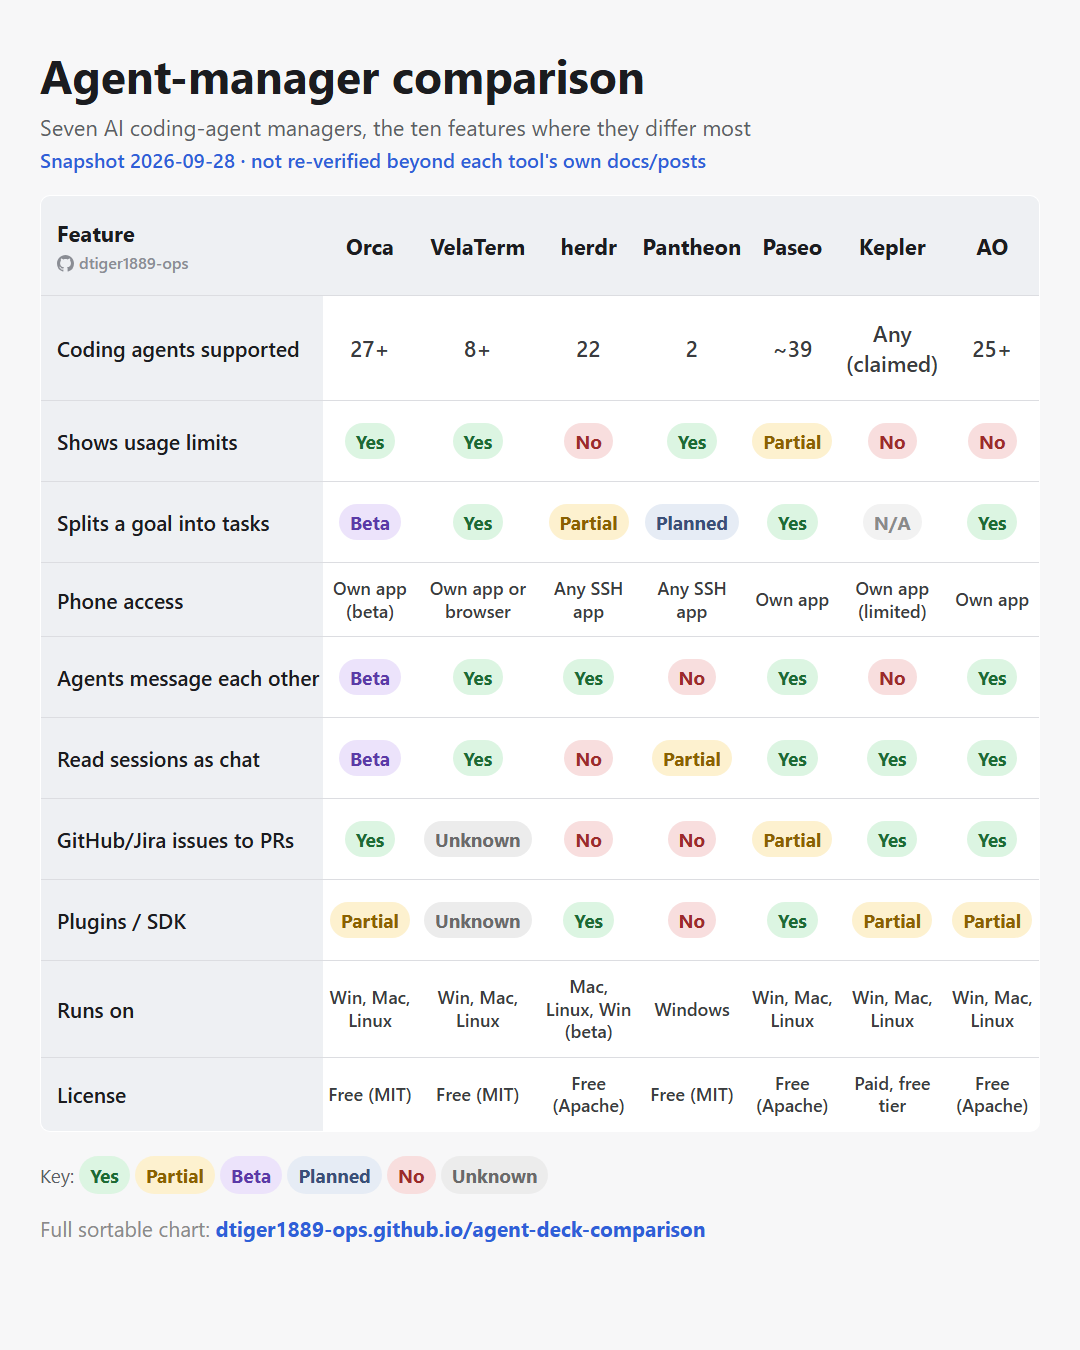
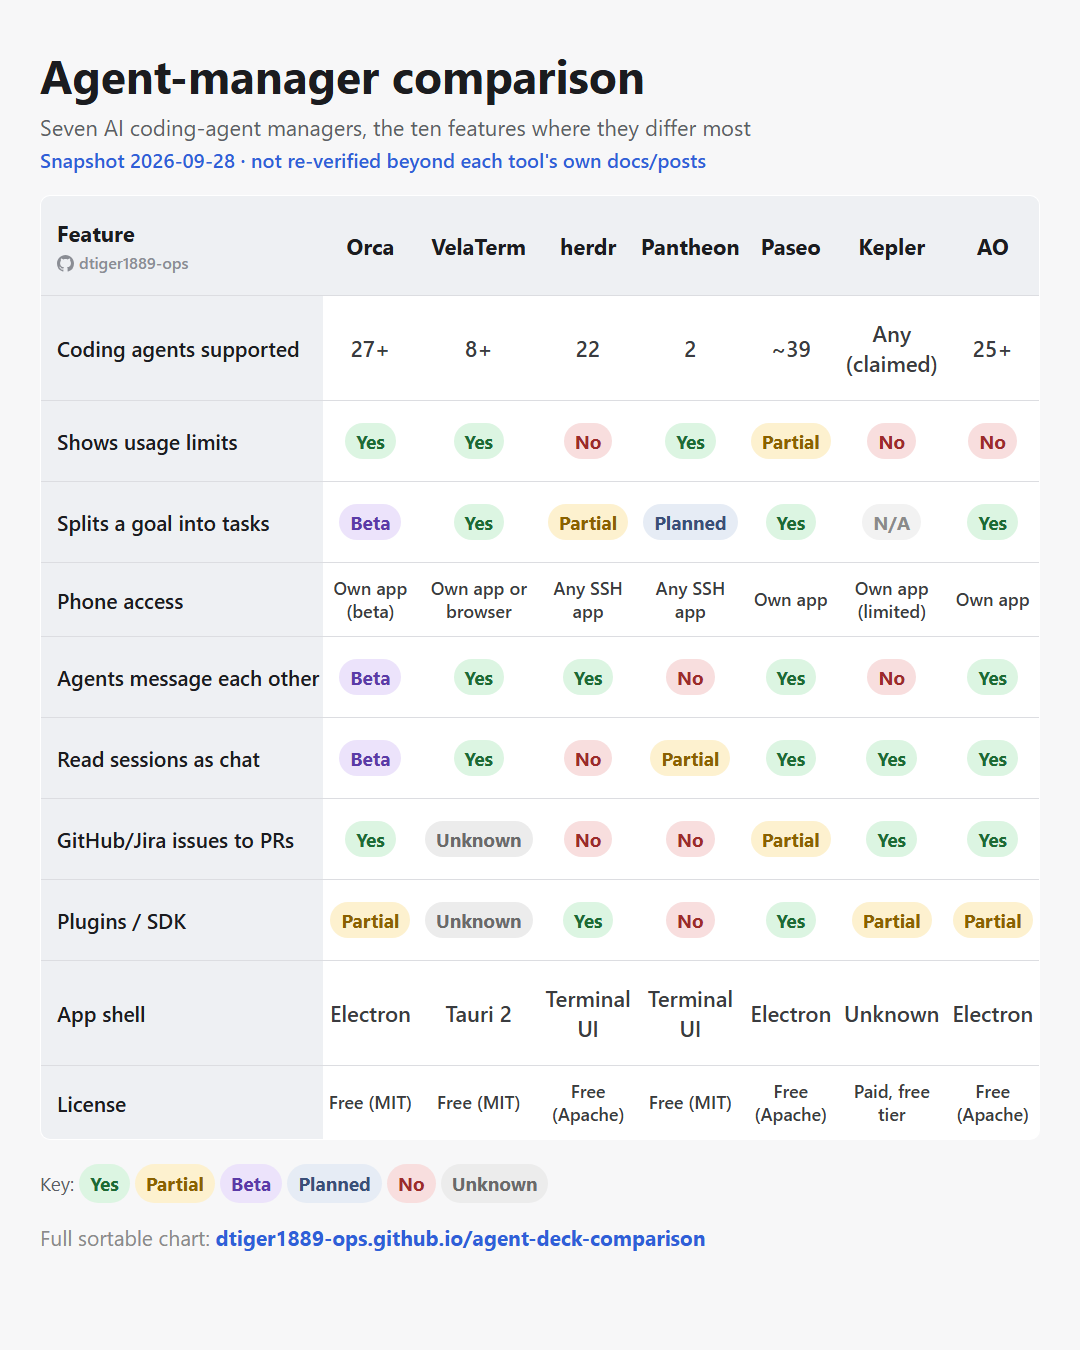
Image 2: App shell row instead of Runs on

diff --git a/assets/linkedin.html b/assets/linkedin.html
@@ -30,7 +30,7 @@
   <p class="snap">Snapshot 2026-09-28 &middot; not re-verified beyond each tool's own docs/posts</p>
   <table>
     <thead><tr><th>Feature<span class="wm"><svg class="gh" viewBox="0 0 16 16" width="17" height="17" aria-hidden="true"><path fill="currentColor" d="M8 0c4.42 0 8 3.58 8 8a8.013 8.013 0 0 1-5.45 7.59c-.4.08-.55-.17-.55-.38 0-.27.01-1.13.01-2.2 0-.75-.25-1.23-.54-1.48 1.78-.2 3.65-.88 3.65-3.95 0-.88-.31-1.59-.82-2.15.08-.2.36-1.02-.08-2.12 0 0-.67-.22-2.2.82-.64-.18-1.32-.27-2-.27-.68 0-1.36.09-2 .27-1.53-1.03-2.2-.82-2.2-.82-.44 1.1-.16 1.92-.08 2.12-.51.56-.82 1.28-.82 2.15 0 3.06 1.86 3.75 3.64 3.95-.23.2-.44.55-.51 1.07-.46.21-1.61.55-2.33-.66-.15-.24-.6-.83-1.23-.82-.67.01-.27.38.01.53.34.19.73.9.82 1.13.16.45.68 1.31 2.69.94 0 .67.01 1.3.01 1.49 0 .21-.15.45-.55.37A7.995 7.995 0 0 1 0 8c0-4.42 3.58-8 8-8Z"/></svg>dtiger1889-ops</span></th><th>Orca</th><th>VelaTerm</th><th>herdr</th><th>Pantheon</th><th>Paseo</th><th>Kepler</th><th>AO</th></tr></thead>
-    <tbody><tr><th>Coding agents supported</th><td class="plain">27+</td><td class="plain">8+</td><td class="plain">22</td><td class="plain">2</td><td class="plain">~39</td><td class="plain">Any (claimed)</td><td class="plain">25+</td></tr><tr><th>App shell</th><td class="plain">Electron</td><td class="plain">Tauri 2</td><td class="plain">Terminal UI</td><td class="plain">Terminal UI</td><td class="plain">Electron</td><td class="plain">not verified</td><td class="plain">Electron</td></tr><tr><th>Shows usage limits</th><td><span class="b" style="background:#dcf5e2;color:#1d6b34">Yes</span></td><td><span class="b" style="background:#dcf5e2;color:#1d6b34">Yes</span></td><td><span class="b" style="background:#f8dede;color:#9c2b2b">No</span></td><td><span class="b" style="background:#dcf5e2;color:#1d6b34">Yes</span></td><td><span class="b" style="background:#fdf1cf;color:#8a6100">Partial</span></td><td><span class="b" style="background:#f8dede;color:#9c2b2b">No</span></td><td><span class="b" style="background:#f8dede;color:#9c2b2b">No</span></td></tr><tr><th>Predicts limit hits</th><td><span class="b" style="background:#f8dede;color:#9c2b2b">No</span></td><td><span class="b" style="background:#ffffff;color:#6a6a6a;border:2px dashed #9a9a9a;padding:3px 7px">Not documented</span></td><td><span class="b" style="background:#ffffff;color:#6a6a6a;border:2px dashed #9a9a9a;padding:3px 7px">Not documented</span></td><td><span class="b" style="background:#fdf1cf;color:#8a6100">Partial</span></td><td><span class="b" style="background:#f8dede;color:#9c2b2b">No</span></td><td><span class="b" style="background:#f8dede;color:#9c2b2b">No</span></td><td><span class="b" style="background:#f8dede;color:#9c2b2b">No</span></td></tr><tr><th>Pause/resume at limits</th><td><span class="b" style="background:#f8dede;color:#9c2b2b">No</span></td><td><span class="b" style="background:#ffffff;color:#6a6a6a;border:2px dashed #9a9a9a;padding:3px 7px">Not documented</span></td><td><span class="b" style="background:#ffffff;color:#6a6a6a;border:2px dashed #9a9a9a;padding:3px 7px">Not documented</span></td><td><span class="b" style="background:#fdf1cf;color:#8a6100">Partial</span></td><td><span class="b" style="background:#f8dede;color:#9c2b2b">No</span></td><td><span class="b" style="background:#f8dede;color:#9c2b2b">No</span></td><td><span class="b" style="background:#f8dede;color:#9c2b2b">No</span></td></tr><tr><th>Tasks from notes vault</th><td><span class="b" style="background:#f8dede;color:#9c2b2b">No</span></td><td><span class="b" style="background:#f8dede;color:#9c2b2b">No</span></td><td><span class="b" style="background:#f8dede;color:#9c2b2b">No</span></td><td><span class="b" style="background:#dcf5e2;color:#1d6b34">Yes</span></td><td><span class="b" style="background:#f8dede;color:#9c2b2b">No</span></td><td><span class="b" style="background:#f8dede;color:#9c2b2b">No</span></td><td><span class="b" style="background:#f8dede;color:#9c2b2b">No</span></td></tr><tr><th>Manages worktrees</th><td><span class="b" style="background:#dcf5e2;color:#1d6b34">Yes</span></td><td><span class="b" style="background:#dcf5e2;color:#1d6b34">Yes</span></td><td><span class="b" style="background:#dcf5e2;color:#1d6b34">Yes</span></td><td><span class="b" style="background:#f8dede;color:#9c2b2b">No</span></td><td><span class="b" style="background:#dcf5e2;color:#1d6b34">Yes</span></td><td><span class="b" style="background:#dcf5e2;color:#1d6b34">Yes</span></td><td><span class="b" style="background:#dcf5e2;color:#1d6b34">Yes</span></td></tr><tr><th>Splits the work</th><td><span class="b" style="background:#ece3fb;color:#5b3aa8">Beta</span></td><td><span class="b" style="background:#dcf5e2;color:#1d6b34">Yes</span></td><td><span class="b" style="background:#fdf1cf;color:#8a6100">Partial</span></td><td><span class="b" style="background:#e6ecf5;color:#3a4f78">Planned</span></td><td><span class="b" style="background:#dcf5e2;color:#1d6b34">Yes</span></td><td><span class="b" style="background:#f2f2f2;color:#8a8a8a">N/A</span></td><td><span class="b" style="background:#dcf5e2;color:#1d6b34">Yes</span></td></tr><tr><th>Phone app</th><td><span class="b" style="background:#ece3fb;color:#5b3aa8">Beta</span></td><td><span class="b" style="background:#dcf5e2;color:#1d6b34">Yes</span></td><td><span class="b" style="background:#f8dede;color:#9c2b2b">No</span></td><td><span class="b" style="background:#f8dede;color:#9c2b2b">No</span></td><td><span class="b" style="background:#dcf5e2;color:#1d6b34">Yes</span></td><td><span class="b" style="background:#fdf1cf;color:#8a6100">Partial</span></td><td><span class="b" style="background:#dcf5e2;color:#1d6b34">Yes</span></td></tr><tr><th>Runs in your terminal</th><td><span class="b" style="background:#f8dede;color:#9c2b2b">No</span></td><td><span class="b" style="background:#f8dede;color:#9c2b2b">No</span></td><td><span class="b" style="background:#dcf5e2;color:#1d6b34">Yes</span></td><td><span class="b" style="background:#dcf5e2;color:#1d6b34">Yes</span></td><td><span class="b" style="background:#f8dede;color:#9c2b2b">No</span></td><td><span class="b" style="background:#f8dede;color:#9c2b2b">No</span></td><td><span class="b" style="background:#f8dede;color:#9c2b2b">No</span></td></tr></tbody>
+    <tbody><tr><th>Coding agents supported</th><td class="plain">27+</td><td class="plain">8+</td><td class="plain">22</td><td class="plain">2</td><td class="plain">~39</td><td class="plain">Any (claimed)</td><td class="plain">25+</td></tr><tr><th>App shell</th><td class="plain">Electron</td><td class="plain">Tauri 2</td><td class="plain">Terminal UI</td><td class="plain">Terminal UI</td><td class="plain">Electron</td><td class="plain">Unknown</td><td class="plain">Electron</td></tr><tr><th>Shows usage limits</th><td><span class="b" style="background:#dcf5e2;color:#1d6b34">Yes</span></td><td><span class="b" style="background:#dcf5e2;color:#1d6b34">Yes</span></td><td><span class="b" style="background:#f8dede;color:#9c2b2b">No</span></td><td><span class="b" style="background:#dcf5e2;color:#1d6b34">Yes</span></td><td><span class="b" style="background:#fdf1cf;color:#8a6100">Partial</span></td><td><span class="b" style="background:#f8dede;color:#9c2b2b">No</span></td><td><span class="b" style="background:#f8dede;color:#9c2b2b">No</span></td></tr><tr><th>Predicts limit hits</th><td><span class="b" style="background:#f8dede;color:#9c2b2b">No</span></td><td><span class="b" style="background:#ffffff;color:#6a6a6a;border:2px dashed #9a9a9a;padding:3px 7px">Not documented</span></td><td><span class="b" style="background:#ffffff;color:#6a6a6a;border:2px dashed #9a9a9a;padding:3px 7px">Not documented</span></td><td><span class="b" style="background:#fdf1cf;color:#8a6100">Partial</span></td><td><span class="b" style="background:#f8dede;color:#9c2b2b">No</span></td><td><span class="b" style="background:#f8dede;color:#9c2b2b">No</span></td><td><span class="b" style="background:#f8dede;color:#9c2b2b">No</span></td></tr><tr><th>Pause/resume at limits</th><td><span class="b" style="background:#f8dede;color:#9c2b2b">No</span></td><td><span class="b" style="background:#ffffff;color:#6a6a6a;border:2px dashed #9a9a9a;padding:3px 7px">Not documented</span></td><td><span class="b" style="background:#ffffff;color:#6a6a6a;border:2px dashed #9a9a9a;padding:3px 7px">Not documented</span></td><td><span class="b" style="background:#fdf1cf;color:#8a6100">Partial</span></td><td><span class="b" style="background:#f8dede;color:#9c2b2b">No</span></td><td><span class="b" style="background:#f8dede;color:#9c2b2b">No</span></td><td><span class="b" style="background:#f8dede;color:#9c2b2b">No</span></td></tr><tr><th>Tasks from notes vault</th><td><span class="b" style="background:#f8dede;color:#9c2b2b">No</span></td><td><span class="b" style="background:#f8dede;color:#9c2b2b">No</span></td><td><span class="b" style="background:#f8dede;color:#9c2b2b">No</span></td><td><span class="b" style="background:#dcf5e2;color:#1d6b34">Yes</span></td><td><span class="b" style="background:#f8dede;color:#9c2b2b">No</span></td><td><span class="b" style="background:#f8dede;color:#9c2b2b">No</span></td><td><span class="b" style="background:#f8dede;color:#9c2b2b">No</span></td></tr><tr><th>Manages worktrees</th><td><span class="b" style="background:#dcf5e2;color:#1d6b34">Yes</span></td><td><span class="b" style="background:#dcf5e2;color:#1d6b34">Yes</span></td><td><span class="b" style="background:#dcf5e2;color:#1d6b34">Yes</span></td><td><span class="b" style="background:#f8dede;color:#9c2b2b">No</span></td><td><span class="b" style="background:#dcf5e2;color:#1d6b34">Yes</span></td><td><span class="b" style="background:#dcf5e2;color:#1d6b34">Yes</span></td><td><span class="b" style="background:#dcf5e2;color:#1d6b34">Yes</span></td></tr><tr><th>Splits the work</th><td><span class="b" style="background:#ece3fb;color:#5b3aa8">Beta</span></td><td><span class="b" style="background:#dcf5e2;color:#1d6b34">Yes</span></td><td><span class="b" style="background:#fdf1cf;color:#8a6100">Partial</span></td><td><span class="b" style="background:#e6ecf5;color:#3a4f78">Planned</span></td><td><span class="b" style="background:#dcf5e2;color:#1d6b34">Yes</span></td><td><span class="b" style="background:#f2f2f2;color:#8a8a8a">N/A</span></td><td><span class="b" style="background:#dcf5e2;color:#1d6b34">Yes</span></td></tr><tr><th>Phone app</th><td><span class="b" style="background:#ece3fb;color:#5b3aa8">Beta</span></td><td><span class="b" style="background:#dcf5e2;color:#1d6b34">Yes</span></td><td><span class="b" style="background:#f8dede;color:#9c2b2b">No</span></td><td><span class="b" style="background:#f8dede;color:#9c2b2b">No</span></td><td><span class="b" style="background:#dcf5e2;color:#1d6b34">Yes</span></td><td><span class="b" style="background:#fdf1cf;color:#8a6100">Partial</span></td><td><span class="b" style="background:#dcf5e2;color:#1d6b34">Yes</span></td></tr><tr><th>Runs in your terminal</th><td><span class="b" style="background:#f8dede;color:#9c2b2b">No</span></td><td><span class="b" style="background:#f8dede;color:#9c2b2b">No</span></td><td><span class="b" style="background:#dcf5e2;color:#1d6b34">Yes</span></td><td><span class="b" style="background:#dcf5e2;color:#1d6b34">Yes</span></td><td><span class="b" style="background:#f8dede;color:#9c2b2b">No</span></td><td><span class="b" style="background:#f8dede;color:#9c2b2b">No</span></td><td><span class="b" style="background:#f8dede;color:#9c2b2b">No</span></td></tr></tbody>
   </table>
   <p class="key">Key: <span class="b" style="background:#dcf5e2;color:#1d6b34">Yes</span> <span class="b" style="background:#fdf1cf;color:#8a6100">Partial</span> <span class="b" style="background:#ece3fb;color:#5b3aa8">Beta</span> <span class="b" style="background:#e6ecf5;color:#3a4f78">Planned</span> <span class="b" style="background:#f8dede;color:#9c2b2b">No</span> <span class="b" style="background:#ffffff;color:#6a6a6a;border:2px dashed #9a9a9a;padding:3px 7px">Not documented</span> <span class="b" style="background:#ececec;color:#6a6a6a">Unknown</span></p>
   <p class="footer">Full sortable chart: <b style="color:#2f5fd8">dtiger1889-ops.github.io/agent-deck-comparison</b></p>

diff --git a/assets/share-2.html b/assets/share-2.html
@@ -30,7 +30,7 @@
   <p class="snap">Snapshot 2026-09-28 &middot; not re-verified beyond each tool's own docs/posts</p>
   <table>
     <thead><tr><th>Feature<span class="wm"><svg class="gh" viewBox="0 0 16 16" width="17" height="17" aria-hidden="true"><path fill="currentColor" d="M8 0c4.42 0 8 3.58 8 8a8.013 8.013 0 0 1-5.45 7.59c-.4.08-.55-.17-.55-.38 0-.27.01-1.13.01-2.2 0-.75-.25-1.23-.54-1.48 1.78-.2 3.65-.88 3.65-3.95 0-.88-.31-1.59-.82-2.15.08-.2.36-1.02-.08-2.12 0 0-.67-.22-2.2.82-.64-.18-1.32-.27-2-.27-.68 0-1.36.09-2 .27-1.53-1.03-2.2-.82-2.2-.82-.44 1.1-.16 1.92-.08 2.12-.51.56-.82 1.28-.82 2.15 0 3.06 1.86 3.75 3.64 3.95-.23.2-.44.55-.51 1.07-.46.21-1.61.55-2.33-.66-.15-.24-.6-.83-1.23-.82-.67.01-.27.38.01.53.34.19.73.9.82 1.13.16.45.68 1.31 2.69.94 0 .67.01 1.3.01 1.49 0 .21-.15.45-.55.37A7.995 7.995 0 0 1 0 8c0-4.42 3.58-8 8-8Z"/></svg>dtiger1889-ops</span></th><th>Orca</th><th>VelaTerm</th><th>herdr</th><th>Pantheon</th><th>Paseo</th><th>Kepler</th><th>AO</th></tr></thead>
-    <tbody><tr><th>Coding agents supported</th><td class="plain">27+</td><td class="plain">8+</td><td class="plain">22</td><td class="plain">2</td><td class="plain">~39</td><td class="plain">Any (claimed)</td><td class="plain">25+</td></tr><tr><th>Shows usage limits</th><td><span class="b" style="background:#dcf5e2;color:#1d6b34">Yes</span></td><td><span class="b" style="background:#dcf5e2;color:#1d6b34">Yes</span></td><td><span class="b" style="background:#f8dede;color:#9c2b2b">No</span></td><td><span class="b" style="background:#dcf5e2;color:#1d6b34">Yes</span></td><td><span class="b" style="background:#fdf1cf;color:#8a6100">Partial</span></td><td><span class="b" style="background:#f8dede;color:#9c2b2b">No</span></td><td><span class="b" style="background:#f8dede;color:#9c2b2b">No</span></td></tr><tr><th>Splits a goal into tasks</th><td><span class="b" style="background:#ece3fb;color:#5b3aa8">Beta</span></td><td><span class="b" style="background:#dcf5e2;color:#1d6b34">Yes</span></td><td><span class="b" style="background:#fdf1cf;color:#8a6100">Partial</span></td><td><span class="b" style="background:#e6ecf5;color:#3a4f78">Planned</span></td><td><span class="b" style="background:#dcf5e2;color:#1d6b34">Yes</span></td><td><span class="b" style="background:#f2f2f2;color:#8a8a8a">N/A</span></td><td><span class="b" style="background:#dcf5e2;color:#1d6b34">Yes</span></td></tr><tr><th>Phone access</th><td class="plain small">Own app (beta)</td><td class="plain small">Own app or browser</td><td class="plain small">Any SSH app</td><td class="plain small">Any SSH app</td><td class="plain small">Own app</td><td class="plain small">Own app (limited)</td><td class="plain small">Own app</td></tr><tr><th>Agents message each other</th><td><span class="b" style="background:#ece3fb;color:#5b3aa8">Beta</span></td><td><span class="b" style="background:#dcf5e2;color:#1d6b34">Yes</span></td><td><span class="b" style="background:#dcf5e2;color:#1d6b34">Yes</span></td><td><span class="b" style="background:#f8dede;color:#9c2b2b">No</span></td><td><span class="b" style="background:#dcf5e2;color:#1d6b34">Yes</span></td><td><span class="b" style="background:#f8dede;color:#9c2b2b">No</span></td><td><span class="b" style="background:#dcf5e2;color:#1d6b34">Yes</span></td></tr><tr><th>Read sessions as chat</th><td><span class="b" style="background:#ece3fb;color:#5b3aa8">Beta</span></td><td><span class="b" style="background:#dcf5e2;color:#1d6b34">Yes</span></td><td><span class="b" style="background:#f8dede;color:#9c2b2b">No</span></td><td><span class="b" style="background:#fdf1cf;color:#8a6100">Partial</span></td><td><span class="b" style="background:#dcf5e2;color:#1d6b34">Yes</span></td><td><span class="b" style="background:#dcf5e2;color:#1d6b34">Yes</span></td><td><span class="b" style="background:#dcf5e2;color:#1d6b34">Yes</span></td></tr><tr><th>GitHub/Jira issues to PRs</th><td><span class="b" style="background:#dcf5e2;color:#1d6b34">Yes</span></td><td><span class="b" style="background:#ececec;color:#6a6a6a">Unknown</span></td><td><span class="b" style="background:#f8dede;color:#9c2b2b">No</span></td><td><span class="b" style="background:#f8dede;color:#9c2b2b">No</span></td><td><span class="b" style="background:#fdf1cf;color:#8a6100">Partial</span></td><td><span class="b" style="background:#dcf5e2;color:#1d6b34">Yes</span></td><td><span class="b" style="background:#dcf5e2;color:#1d6b34">Yes</span></td></tr><tr><th>Plugins / SDK</th><td><span class="b" style="background:#fdf1cf;color:#8a6100">Partial</span></td><td><span class="b" style="background:#ececec;color:#6a6a6a">Unknown</span></td><td><span class="b" style="background:#dcf5e2;color:#1d6b34">Yes</span></td><td><span class="b" style="background:#f8dede;color:#9c2b2b">No</span></td><td><span class="b" style="background:#dcf5e2;color:#1d6b34">Yes</span></td><td><span class="b" style="background:#fdf1cf;color:#8a6100">Partial</span></td><td><span class="b" style="background:#fdf1cf;color:#8a6100">Partial</span></td></tr><tr><th>Runs on</th><td class="plain small">Win, Mac, Linux</td><td class="plain small">Win, Mac, Linux</td><td class="plain small">Mac, Linux, Win (beta)</td><td class="plain small">Windows</td><td class="plain small">Win, Mac, Linux</td><td class="plain small">Win, Mac, Linux</td><td class="plain small">Win, Mac, Linux</td></tr><tr><th>License</th><td class="plain small">Free (MIT)</td><td class="plain small">Free (MIT)</td><td class="plain small">Free (Apache)</td><td class="plain small">Free (MIT)</td><td class="plain small">Free (Apache)</td><td class="plain small">Paid, free tier</td><td class="plain small">Free (Apache)</td></tr></tbody>
+    <tbody><tr><th>Coding agents supported</th><td class="plain">27+</td><td class="plain">8+</td><td class="plain">22</td><td class="plain">2</td><td class="plain">~39</td><td class="plain">Any (claimed)</td><td class="plain">25+</td></tr><tr><th>Shows usage limits</th><td><span class="b" style="background:#dcf5e2;color:#1d6b34">Yes</span></td><td><span class="b" style="background:#dcf5e2;color:#1d6b34">Yes</span></td><td><span class="b" style="background:#f8dede;color:#9c2b2b">No</span></td><td><span class="b" style="background:#dcf5e2;color:#1d6b34">Yes</span></td><td><span class="b" style="background:#fdf1cf;color:#8a6100">Partial</span></td><td><span class="b" style="background:#f8dede;color:#9c2b2b">No</span></td><td><span class="b" style="background:#f8dede;color:#9c2b2b">No</span></td></tr><tr><th>Splits a goal into tasks</th><td><span class="b" style="background:#ece3fb;color:#5b3aa8">Beta</span></td><td><span class="b" style="background:#dcf5e2;color:#1d6b34">Yes</span></td><td><span class="b" style="background:#fdf1cf;color:#8a6100">Partial</span></td><td><span class="b" style="background:#e6ecf5;color:#3a4f78">Planned</span></td><td><span class="b" style="background:#dcf5e2;color:#1d6b34">Yes</span></td><td><span class="b" style="background:#f2f2f2;color:#8a8a8a">N/A</span></td><td><span class="b" style="background:#dcf5e2;color:#1d6b34">Yes</span></td></tr><tr><th>Phone access</th><td class="plain small">Own app (beta)</td><td class="plain small">Own app or browser</td><td class="plain small">Any SSH app</td><td class="plain small">Any SSH app</td><td class="plain small">Own app</td><td class="plain small">Own app (limited)</td><td class="plain small">Own app</td></tr><tr><th>Agents message each other</th><td><span class="b" style="background:#ece3fb;color:#5b3aa8">Beta</span></td><td><span class="b" style="background:#dcf5e2;color:#1d6b34">Yes</span></td><td><span class="b" style="background:#dcf5e2;color:#1d6b34">Yes</span></td><td><span class="b" style="background:#f8dede;color:#9c2b2b">No</span></td><td><span class="b" style="background:#dcf5e2;color:#1d6b34">Yes</span></td><td><span class="b" style="background:#f8dede;color:#9c2b2b">No</span></td><td><span class="b" style="background:#dcf5e2;color:#1d6b34">Yes</span></td></tr><tr><th>Read sessions as chat</th><td><span class="b" style="background:#ece3fb;color:#5b3aa8">Beta</span></td><td><span class="b" style="background:#dcf5e2;color:#1d6b34">Yes</span></td><td><span class="b" style="background:#f8dede;color:#9c2b2b">No</span></td><td><span class="b" style="background:#fdf1cf;color:#8a6100">Partial</span></td><td><span class="b" style="background:#dcf5e2;color:#1d6b34">Yes</span></td><td><span class="b" style="background:#dcf5e2;color:#1d6b34">Yes</span></td><td><span class="b" style="background:#dcf5e2;color:#1d6b34">Yes</span></td></tr><tr><th>GitHub/Jira issues to PRs</th><td><span class="b" style="background:#dcf5e2;color:#1d6b34">Yes</span></td><td><span class="b" style="background:#ececec;color:#6a6a6a">Unknown</span></td><td><span class="b" style="background:#f8dede;color:#9c2b2b">No</span></td><td><span class="b" style="background:#f8dede;color:#9c2b2b">No</span></td><td><span class="b" style="background:#fdf1cf;color:#8a6100">Partial</span></td><td><span class="b" style="background:#dcf5e2;color:#1d6b34">Yes</span></td><td><span class="b" style="background:#dcf5e2;color:#1d6b34">Yes</span></td></tr><tr><th>Plugins / SDK</th><td><span class="b" style="background:#fdf1cf;color:#8a6100">Partial</span></td><td><span class="b" style="background:#ececec;color:#6a6a6a">Unknown</span></td><td><span class="b" style="background:#dcf5e2;color:#1d6b34">Yes</span></td><td><span class="b" style="background:#f8dede;color:#9c2b2b">No</span></td><td><span class="b" style="background:#dcf5e2;color:#1d6b34">Yes</span></td><td><span class="b" style="background:#fdf1cf;color:#8a6100">Partial</span></td><td><span class="b" style="background:#fdf1cf;color:#8a6100">Partial</span></td></tr><tr><th>App shell</th><td class="plain">Electron</td><td class="plain">Tauri 2</td><td class="plain">Terminal UI</td><td class="plain">Terminal UI</td><td class="plain">Electron</td><td class="plain">Unknown</td><td class="plain">Electron</td></tr><tr><th>License</th><td class="plain small">Free (MIT)</td><td class="plain small">Free (MIT)</td><td class="plain small">Free (Apache)</td><td class="plain small">Free (MIT)</td><td class="plain small">Free (Apache)</td><td class="plain small">Paid, free tier</td><td class="plain small">Free (Apache)</td></tr></tbody>
   </table>
   <p class="key">Key: <span class="b" style="background:#dcf5e2;color:#1d6b34">Yes</span> <span class="b" style="background:#fdf1cf;color:#8a6100">Partial</span> <span class="b" style="background:#ece3fb;color:#5b3aa8">Beta</span> <span class="b" style="background:#e6ecf5;color:#3a4f78">Planned</span> <span class="b" style="background:#f8dede;color:#9c2b2b">No</span> <span class="b" style="background:#ececec;color:#6a6a6a">Unknown</span></p>
   <p class="footer">Full sortable chart: <b style="color:#2f5fd8">dtiger1889-ops.github.io/agent-deck-comparison</b></p>

diff --git a/tools/build_linkedin.py b/tools/build_linkedin.py
@@ -39,7 +39,7 @@ if SET == "2":
     FEATURE_ORDER = [
         "harness_count", "usage_hud", "planner_orchestrator", "phone_access",
         "agent_to_agent_messaging", "conversation_gui_view", "issue_tracker_pipeline",
-        "extensibility", "os", "license_cost",
+        "extensibility", "app_shell", "license_cost",
     ]
     SHORT_LABEL = {
         "harness_count": "Coding agents supported",
@@ -50,7 +50,7 @@ if SET == "2":
         "conversation_gui_view": "Read sessions as chat",
         "issue_tracker_pipeline": "GitHub/Jira issues to PRs",
         "extensibility": "Plugins / SDK",
-        "os": "Runs on",
+        "app_shell": "App shell",
         "license_cost": "License",
     }
     SUBTITLE = "Seven AI coding-agent managers, the ten features where they differ most"
@@ -90,7 +90,7 @@ SHORT_SHELL = {
     "herdr": "Terminal UI",
     "Pantheon": "Terminal UI",
     "Paseo": "Electron",
-    "GitKraken Kepler": "not verified",
+    "GitKraken Kepler": "Unknown",
     "Agent Orchestrator (AO)": "Electron",
 }
 
